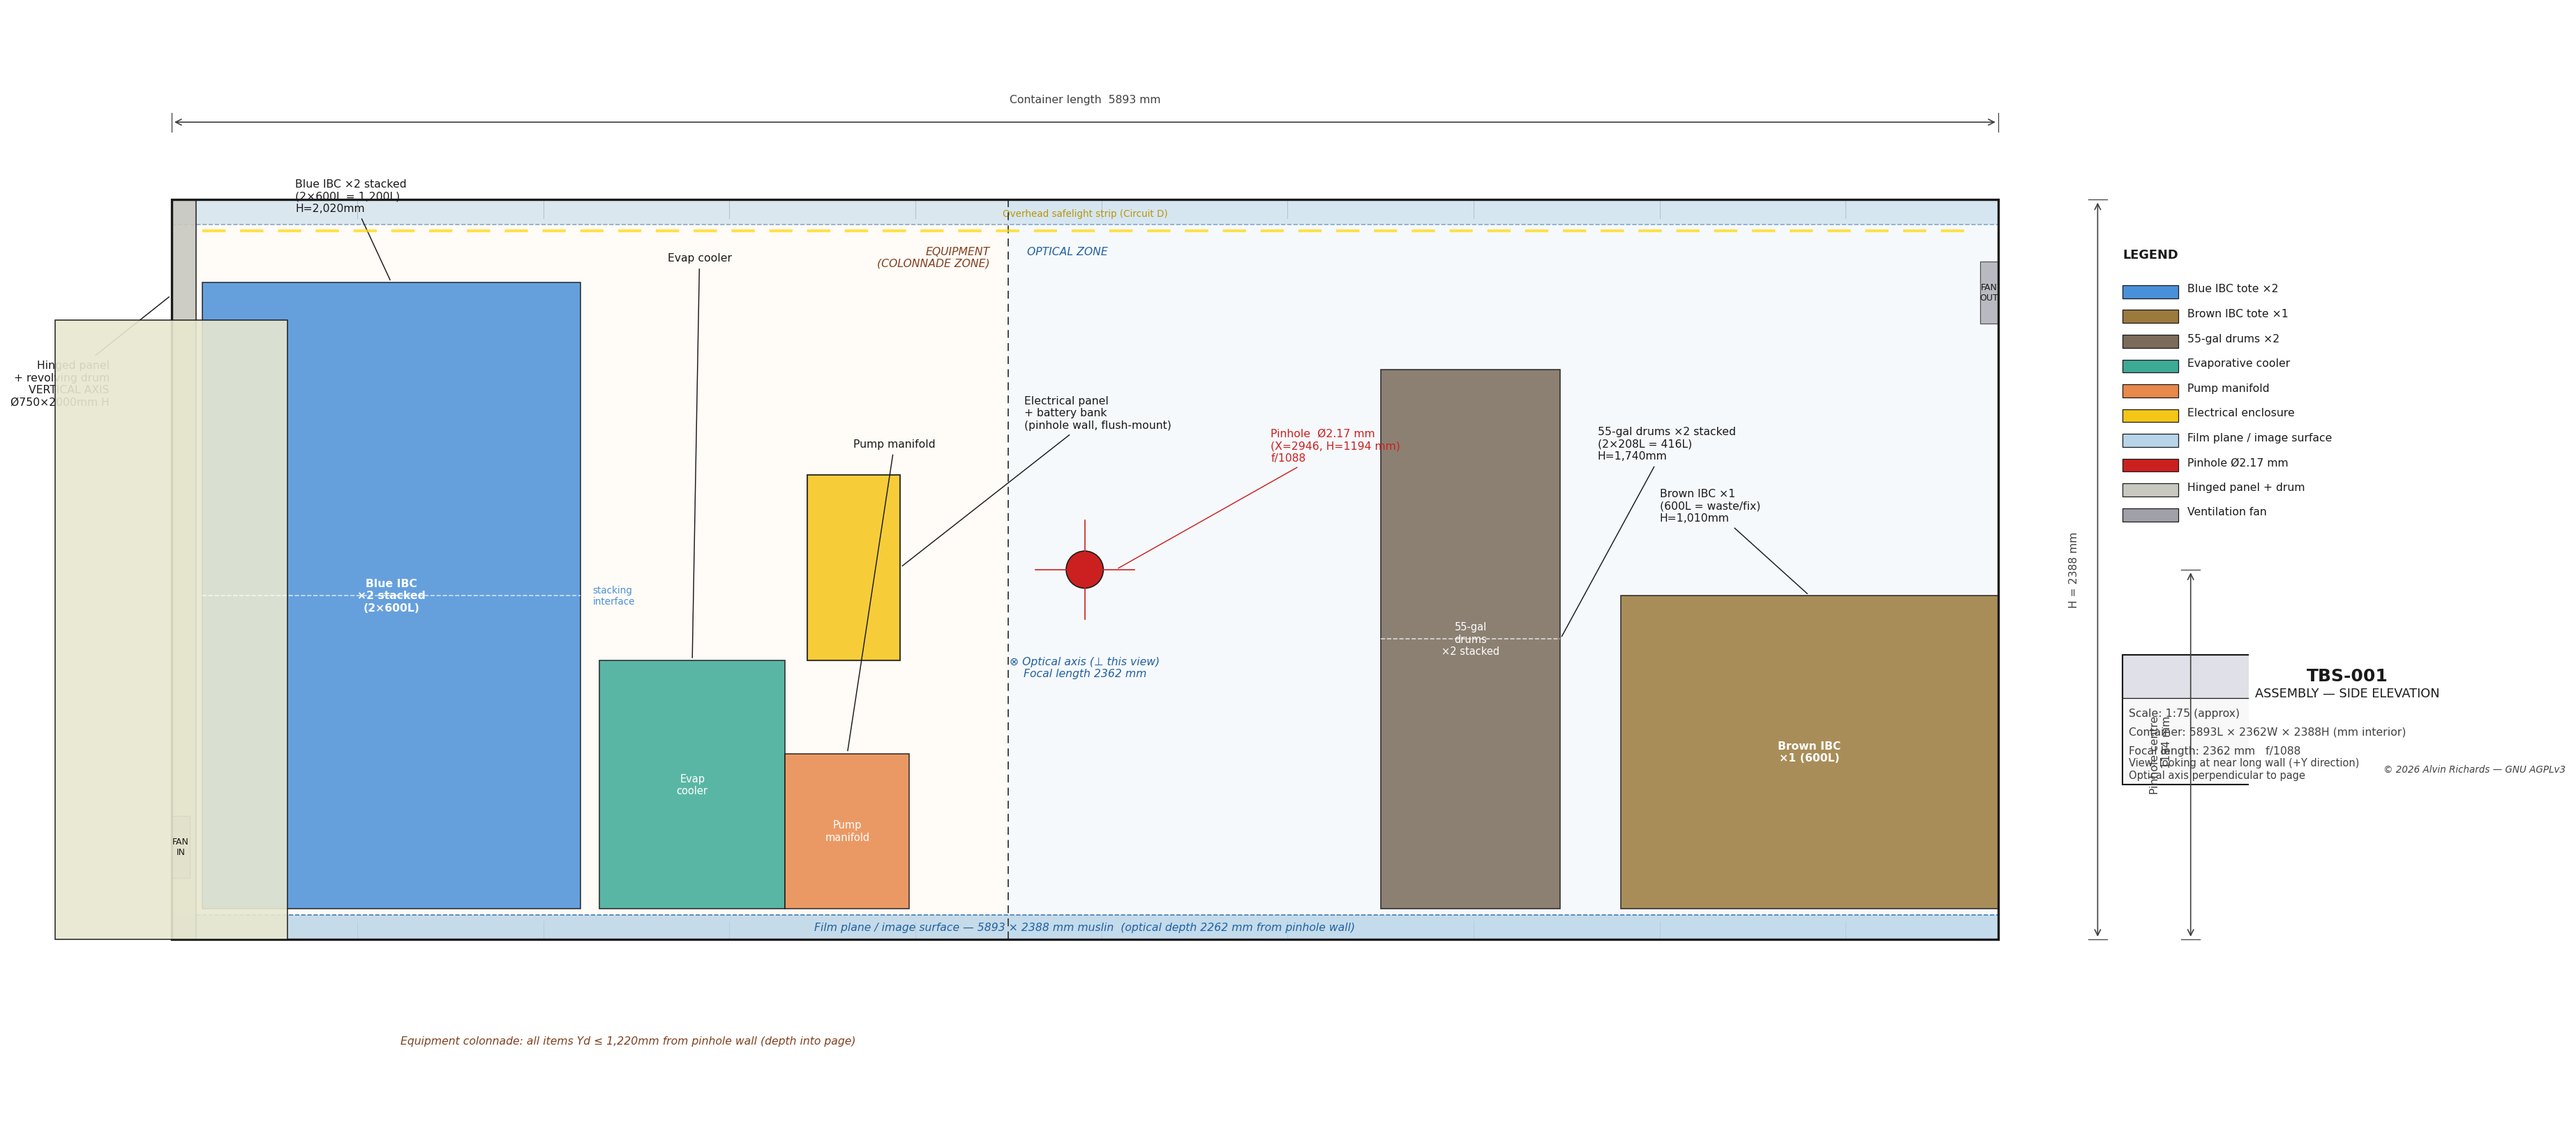
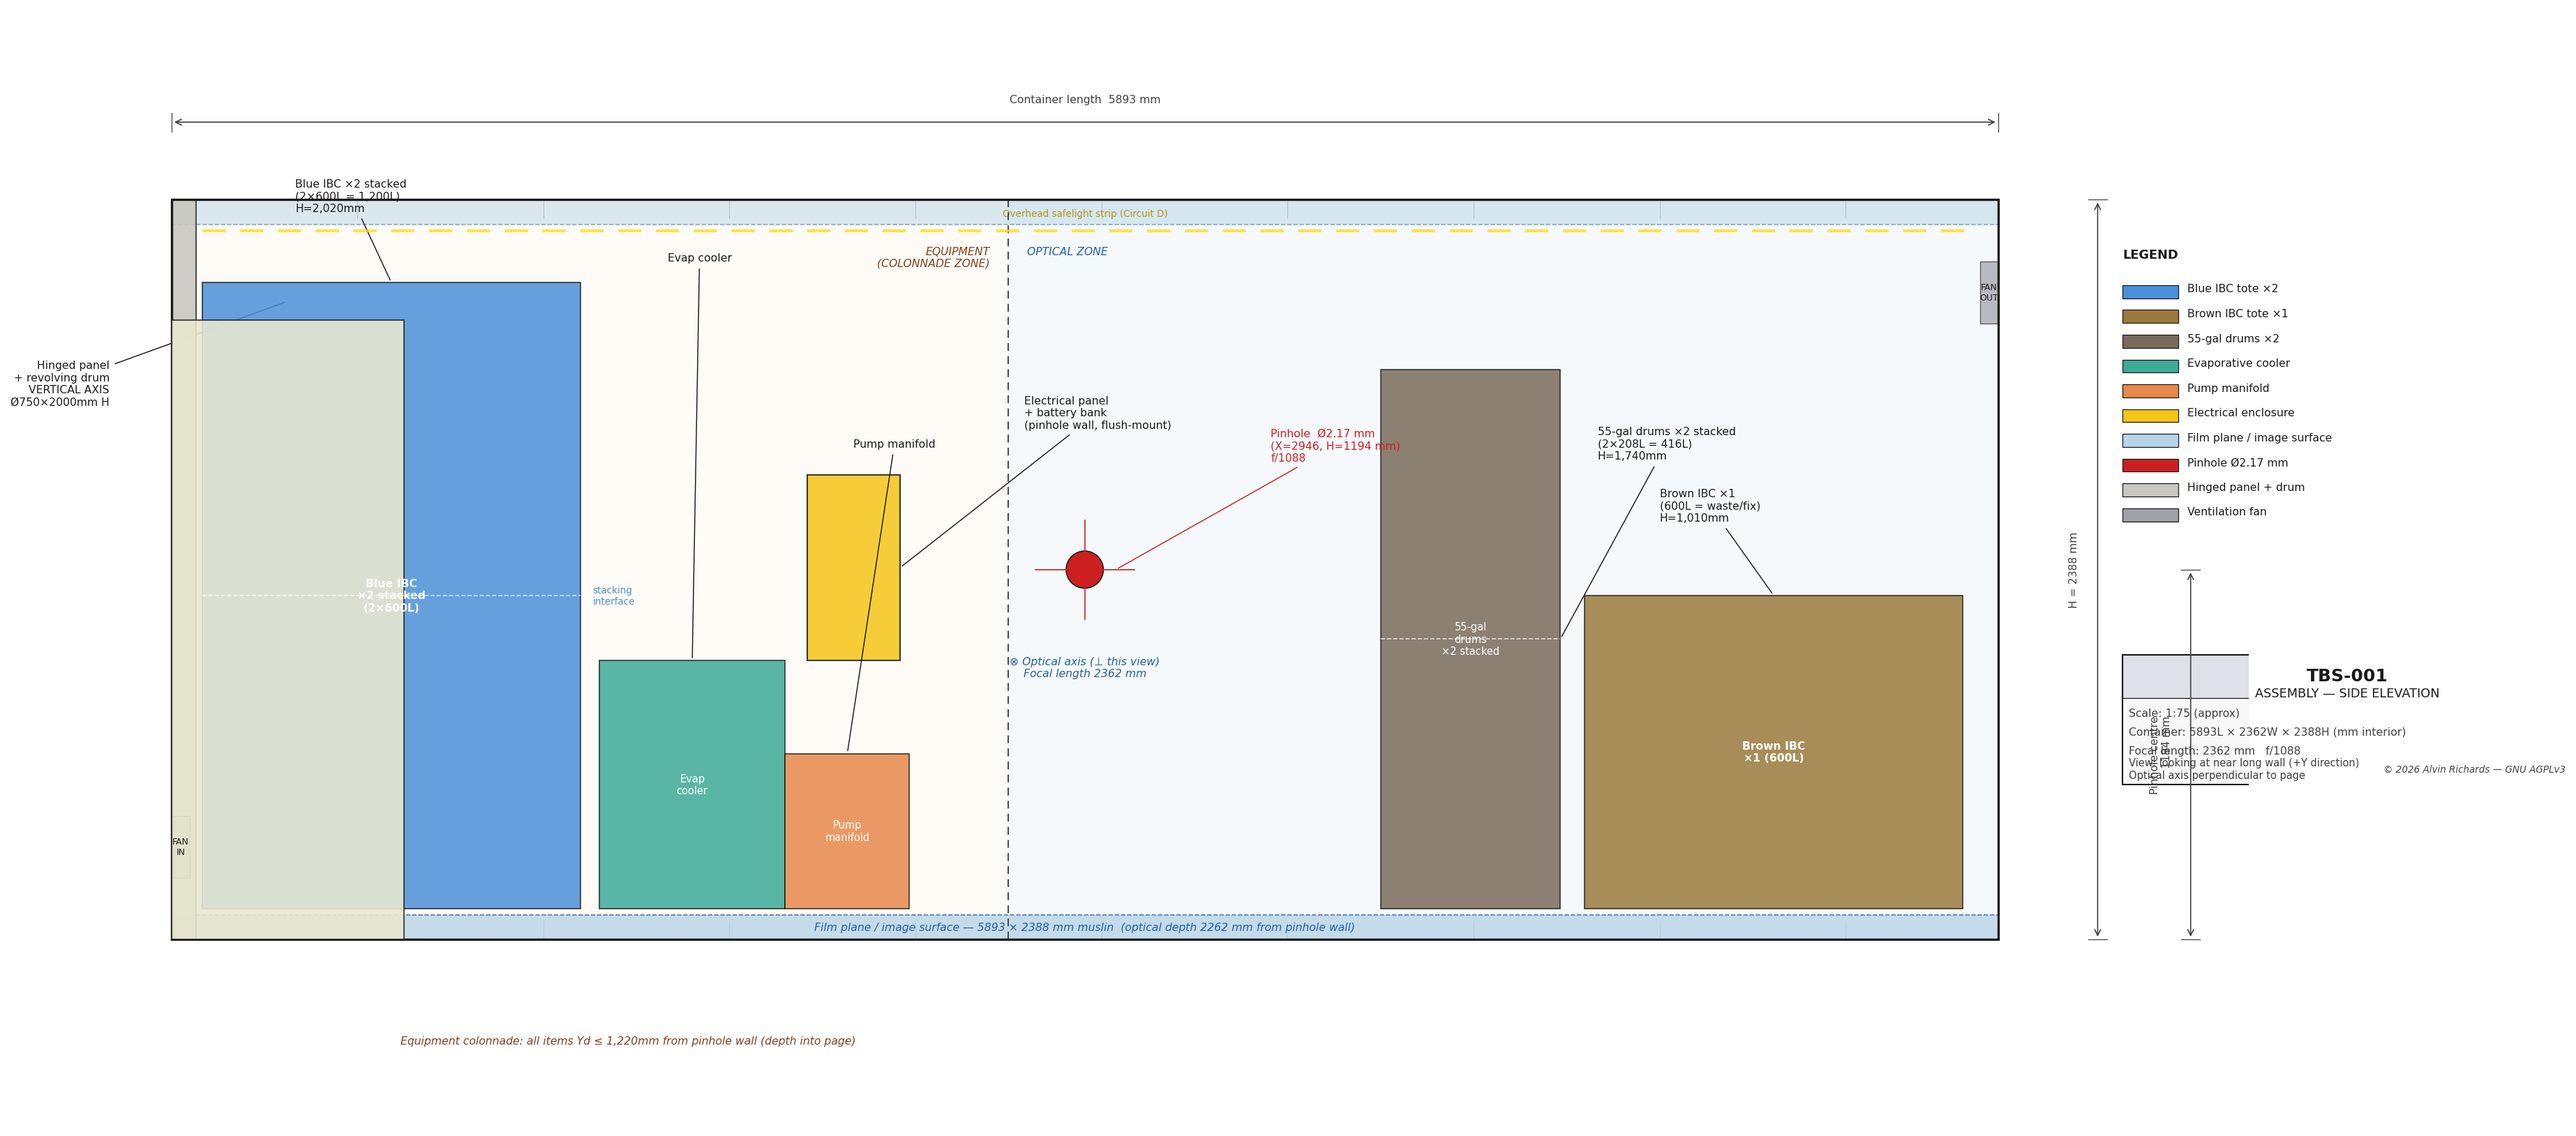
Fix drum position in assembly overview — fully inside container
Moved revolving drum from straddling the X=0 wall (-375 to +375mm)
to sitting fully inside the container (0 to 750mm from cargo door wall).
Also aligned Brown IBC X position to 4559mm to match floor plan.

diff --git a/generate_assembly_overview.py b/generate_assembly_overview.py
@@ -178,11 +178,12 @@ ax.add_patch(panel_rect)
 # the drum appears as a RECTANGLE: Ø750mm wide × 2000mm tall.
 # It straddles the panel face at X=0.
 DRUM_H_ELV = 2000
-ax.add_patch(mpatches.Rectangle((-DRUM_R, 0), DRUM_D, DRUM_H_ELV,
+# Drum sits fully inside the container, starting at the cargo door wall face (X=0)
+ax.add_patch(mpatches.Rectangle((0, 0), DRUM_D, DRUM_H_ELV,
                                   facecolor="#E8E8D0", edgecolor=C_OUT,
                                   linewidth=0.8, alpha=0.9, zorder=5))
 
-leader(ax, 0, DRUM_H_ELV + 80, -200, PH_H + 600,
+leader(ax, DRUM_D / 2, DRUM_H_ELV + 60, -200, PH_H + 600,
        f"Hinged panel\n+ revolving drum\nVERTICAL AXIS\nØ{DRUM_D}×{DRUM_H_ELV}mm H",
        ha="right", fs=FS_SM)
 
@@ -243,9 +244,9 @@ ax.text(DRM_X + DRUM_W_EQ / 2, 100 + DRUM_H_STK / 2,
 ax.plot([DRM_X, DRM_X + DRUM_W_EQ], [100 + DRUM_H_EQ, 100 + DRUM_H_EQ],
         color="#FFFFFF", lw=0.8, ls="--", alpha=0.7, zorder=7)
 
-# Brown IBC ×1 (600L): X=4674–5893, H=0–1010
-equip_rect(ax, 4674, 100, IBC_W, IBC_H_600, C_IBC_BROWN)
-ax.text(4674 + IBC_W / 2, 100 + IBC_H_600 / 2,
+# Brown IBC ×1 (600L): X=4559–5778, H=0–1010
+equip_rect(ax, 4559, 100, IBC_W, IBC_H_600, C_IBC_BROWN)
+ax.text(4559 + IBC_W / 2, 100 + IBC_H_600 / 2,
         "Brown IBC\n×1 (600L)", ha="center", va="center",
         fontsize=FS_SM, color="#FFFFFF", fontweight="bold", zorder=6)
 
@@ -254,7 +255,7 @@ leader(ax, 100 + IBC_W / 2, 100 + IBC_H_STK, 400, 2400,
        "Blue IBC ×2 stacked\n(2×600L = 1,200L)\nH=2,020mm", ha="left", fs=FS_SM)
 leader(ax, DRM_X + DRUM_W_EQ, 100 + DRUM_H_STK * 0.5, DRM_X + 700, 1600,
        "55-gal drums ×2 stacked\n(2×208L = 416L)\nH=1,740mm", ha="left", fs=FS_SM)
-leader(ax, 4674 + IBC_W / 2, 100 + IBC_H_600, 4800, 1400,
+leader(ax, 4559 + IBC_W / 2, 100 + IBC_H_600, 4800, 1400,
        "Brown IBC ×1\n(600L = waste/fix)\nH=1,010mm", ha="left", fs=FS_SM)
 leader(ax, EVAP_X + EVAP_W / 2, EVAP_Y + EVAP_HH, 1600, 2200,
        "Evap cooler", ha="left", fs=FS_SM)
